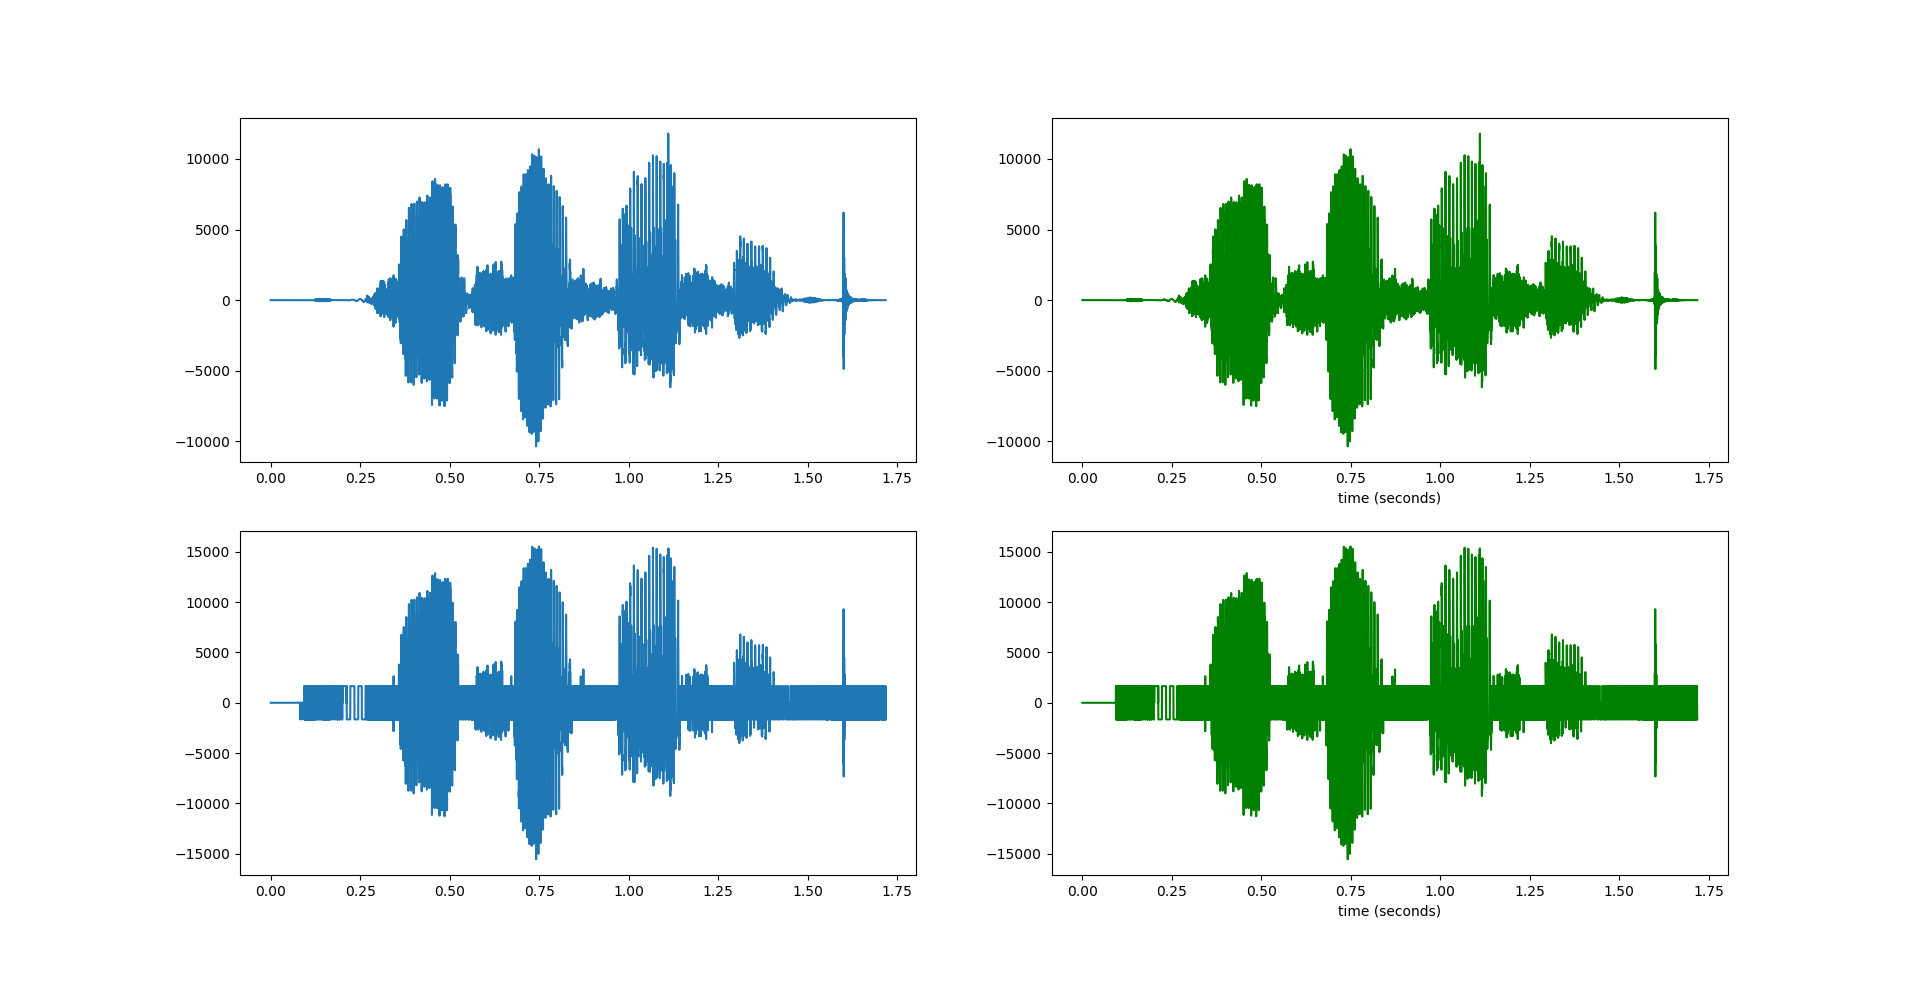
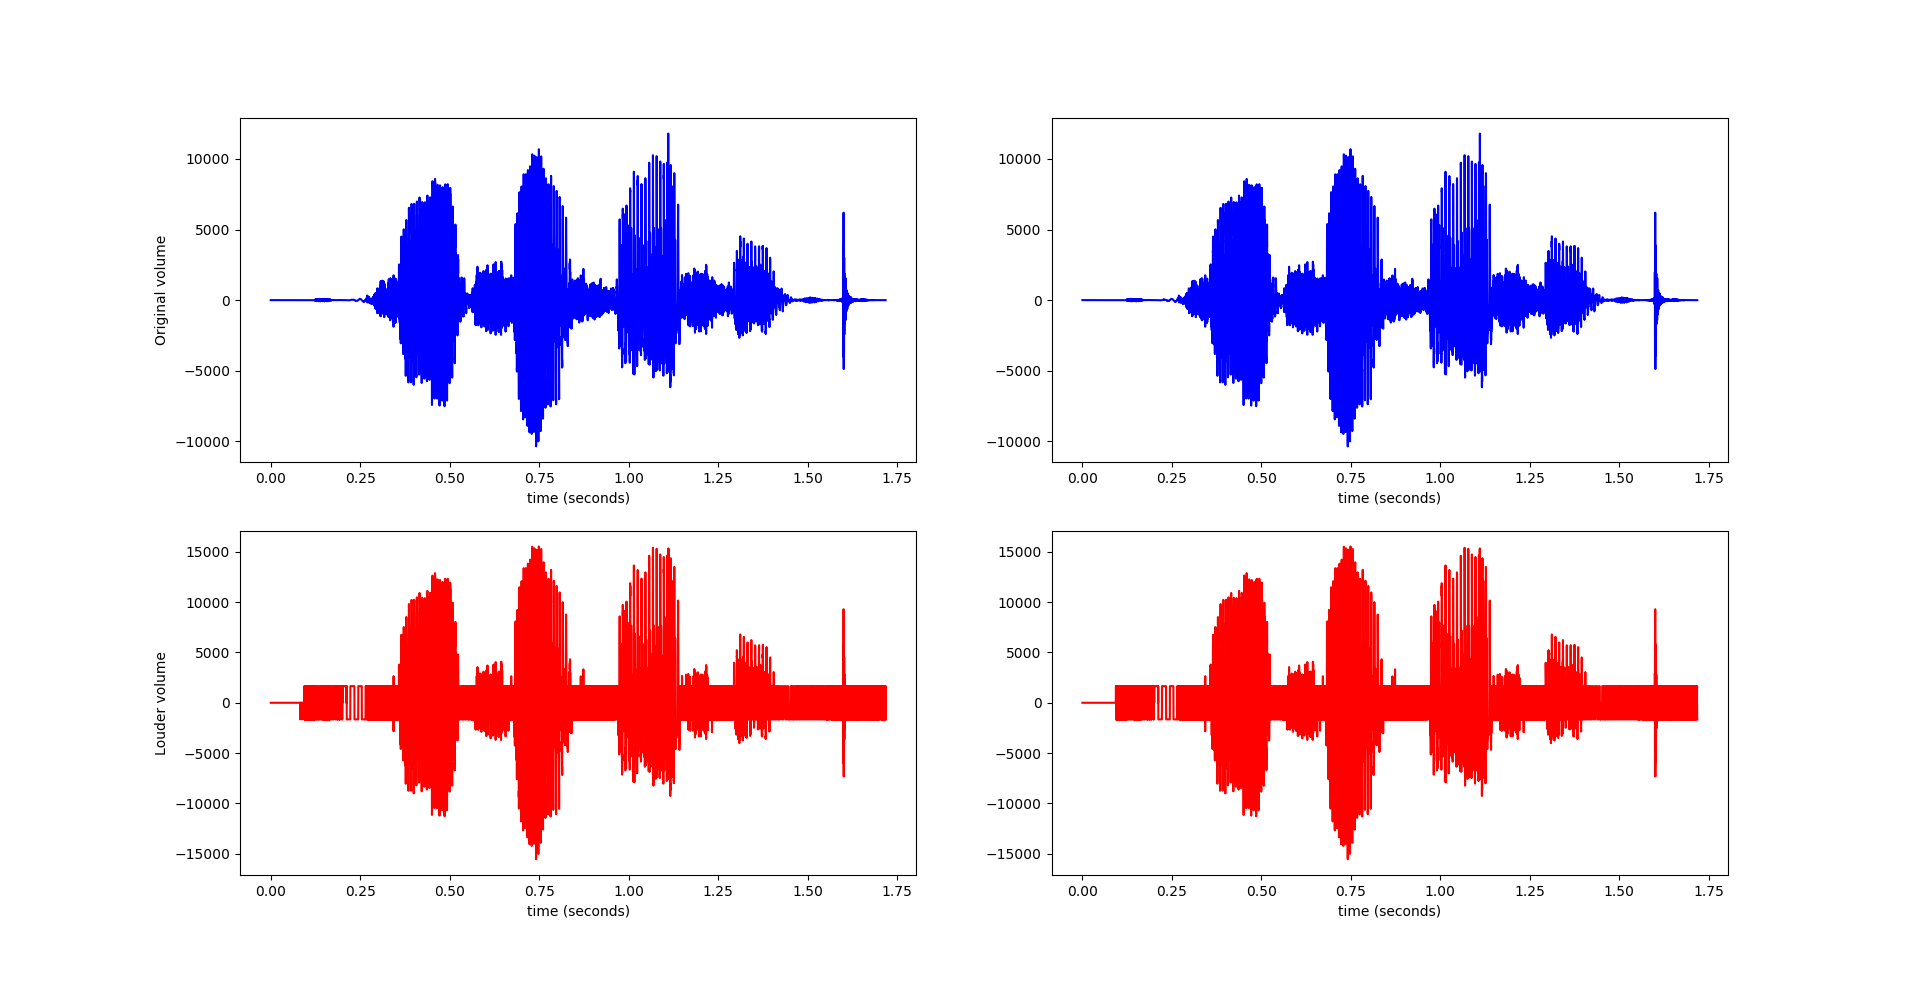
优化放大音量的代码和图片

diff --git a/python基础/声音基础/LouderVolume.py b/python基础/声音基础/LouderVolume.py
@@ -77,9 +77,11 @@ wave_data.shape = -1,2
 wave_data = wave_data.T
 time = np.arange(0,nframes) * (1.0 / framerate)
 pl.subplot(2,2,1)
-pl.plot(time,wave_data[0])
+pl.plot(time,wave_data[0],c="b")
+pl.xlabel("time (seconds)")
+pl.ylabel("Original volume")
 pl.subplot(2,2,2)
-pl.plot(time,wave_data[1],c="g")
+pl.plot(time,wave_data[1],c="b")
 pl.xlabel("time (seconds)")
 
 #绘制放大声音声音波形
@@ -87,23 +89,14 @@ new_wave_data.shape = -1,2
 new_wave_data = new_wave_data.T
 new_time = np.arange(0,nframes) * (1.0 / framerate)
 pl.subplot(2,2,3)
-pl.plot(new_time,new_wave_data[0])
+pl.plot(new_time,new_wave_data[0],c="r")
+pl.xlabel("time (seconds)")
+pl.ylabel("Louder volume")
 pl.subplot(2,2,4)
-pl.plot(new_time,new_wave_data[1],c="g")
+pl.plot(new_time,new_wave_data[1],c="r")
 pl.xlabel("time (seconds)")
 
 file.close()
 fileOUT.close()
 
 pl.show()
-
-
-
-
-
-
-
-
-
-
-
